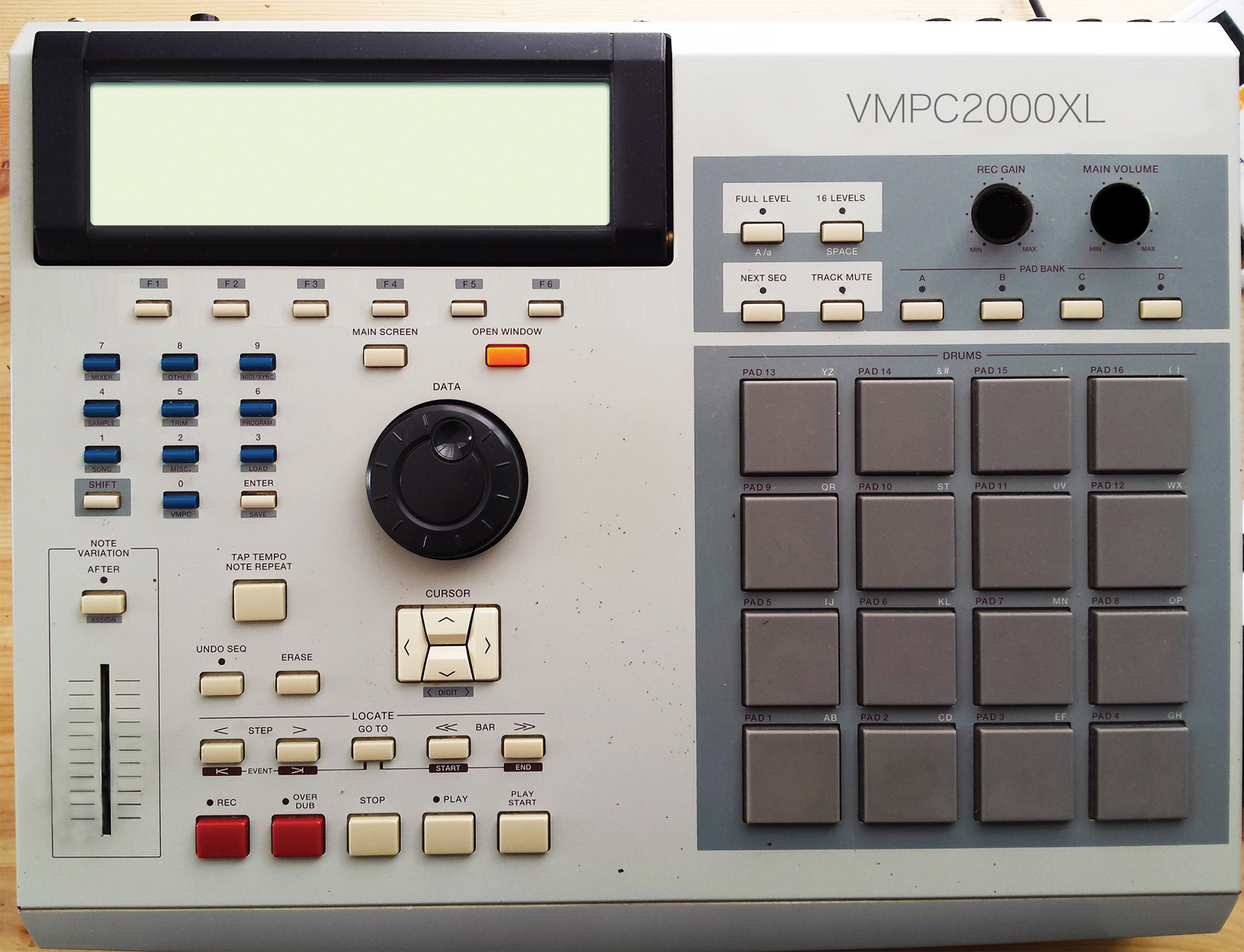
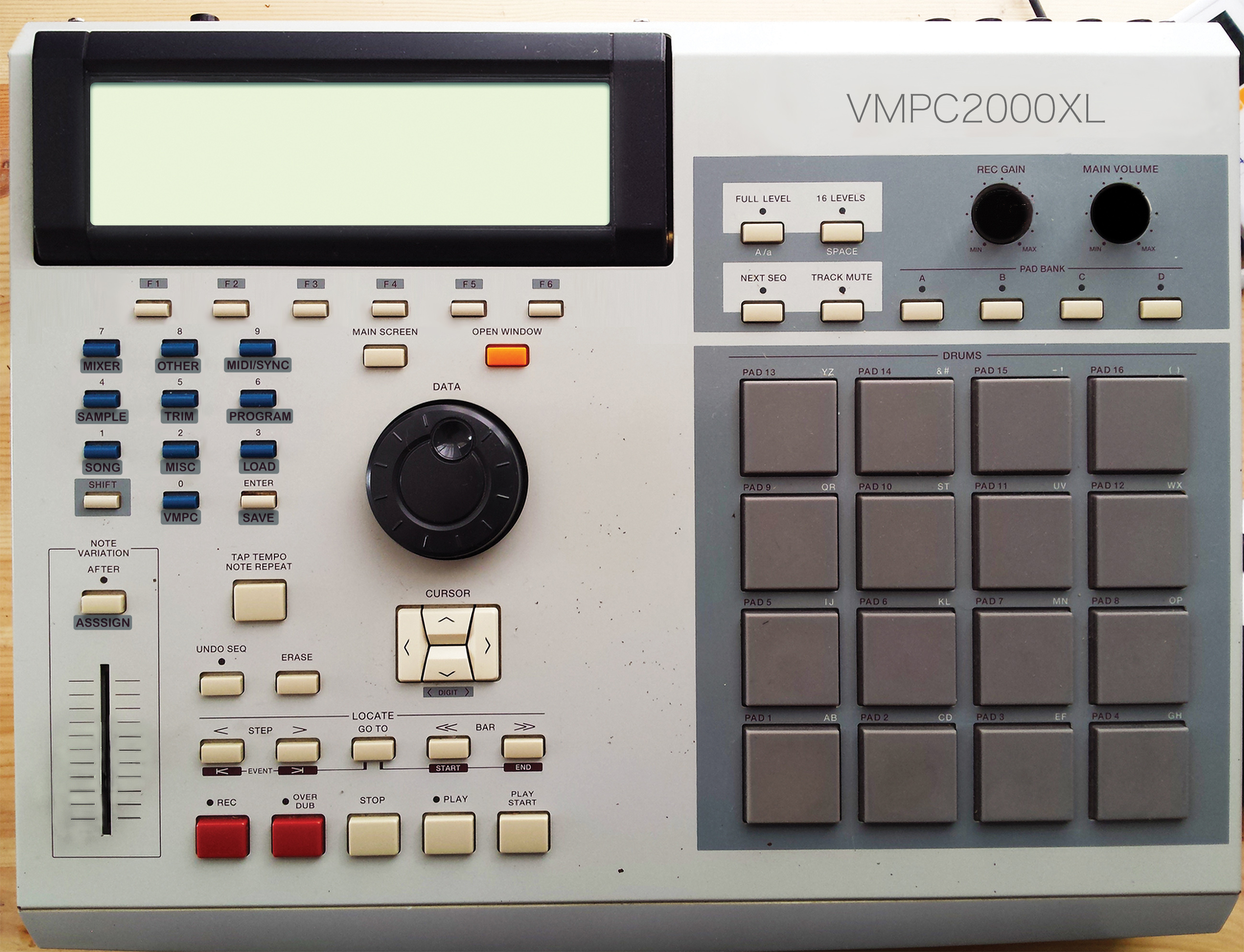
Improve legibility of number pad labels

diff --git a/src/main/gui/ButtonControl.cpp b/src/main/gui/ButtonControl.cpp
@@ -32,15 +32,15 @@ juce::Rectangle<int> ButtonControl::f5 = juce::Rectangle<int>(474, 261, smw, smh
 juce::Rectangle<int> ButtonControl::f6 = juce::Rectangle<int>(554, 262, smw, smh);
 juce::Rectangle<int> ButtonControl::notevariationafter = juce::Rectangle<int>(88, 568, mw, mh);
 juce::Rectangle<int> ButtonControl::rect0 = juce::Rectangle<int>(170, 460, smw, smh);
-juce::Rectangle<int> ButtonControl::rect1 = juce::Rectangle<int>(91, 413, smw, smh);
-juce::Rectangle<int> ButtonControl::rect2 = juce::Rectangle<int>(174, 414, smw, smh);
-juce::Rectangle<int> ButtonControl::rect3 = juce::Rectangle<int>(253, 415, smw, smh);
-juce::Rectangle<int> ButtonControl::rect4 = juce::Rectangle<int>(91, 365, smw, smh);
-juce::Rectangle<int> ButtonControl::rect5 = juce::Rectangle<int>(173, 364, smw, smh);
-juce::Rectangle<int> ButtonControl::rect6 = juce::Rectangle<int>(253, 365, smw, smh);
-juce::Rectangle<int> ButtonControl::rect7 = juce::Rectangle<int>(88, 315, smw, smh);
-juce::Rectangle<int> ButtonControl::rect8 = juce::Rectangle<int>(170, 315, smw, smh);
-juce::Rectangle<int> ButtonControl::rect9 = juce::Rectangle<int>(251, 315, smw, smh);
+juce::Rectangle<int> ButtonControl::rect1 = juce::Rectangle<int>(91, 413 - 5, smw, smh);
+juce::Rectangle<int> ButtonControl::rect2 = juce::Rectangle<int>(174, 414 - 5, smw, smh);
+juce::Rectangle<int> ButtonControl::rect3 = juce::Rectangle<int>(253, 415 - 5, smw, smh);
+juce::Rectangle<int> ButtonControl::rect4 = juce::Rectangle<int>(91, 365 - 10, smw, smh);
+juce::Rectangle<int> ButtonControl::rect5 = juce::Rectangle<int>(173, 364 - 10, smw, smh);
+juce::Rectangle<int> ButtonControl::rect6 = juce::Rectangle<int>(253, 365 - 10, smw, smh);
+juce::Rectangle<int> ButtonControl::rect7 = juce::Rectangle<int>(88, 315 - 15, smw, smh);
+juce::Rectangle<int> ButtonControl::rect8 = juce::Rectangle<int>(170, 315 - 15, smw, smh);
+juce::Rectangle<int> ButtonControl::rect9 = juce::Rectangle<int>(251, 315 - 15, smw, smh);
 juce::Rectangle<int> ButtonControl::shift = juce::Rectangle<int>(90, 462, smw, smh);
 juce::Rectangle<int> ButtonControl::enter = juce::Rectangle<int>(253, 460, smw, smh);
 juce::Rectangle<int> ButtonControl::banka = juce::Rectangle<int>(942, 259, mw, mh);
